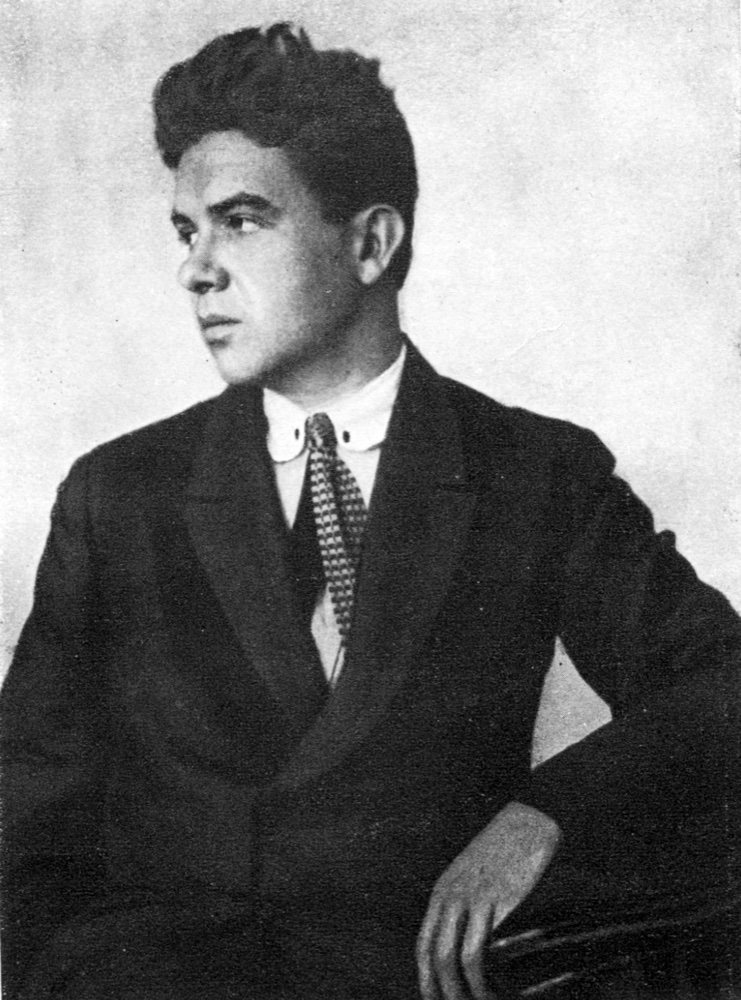
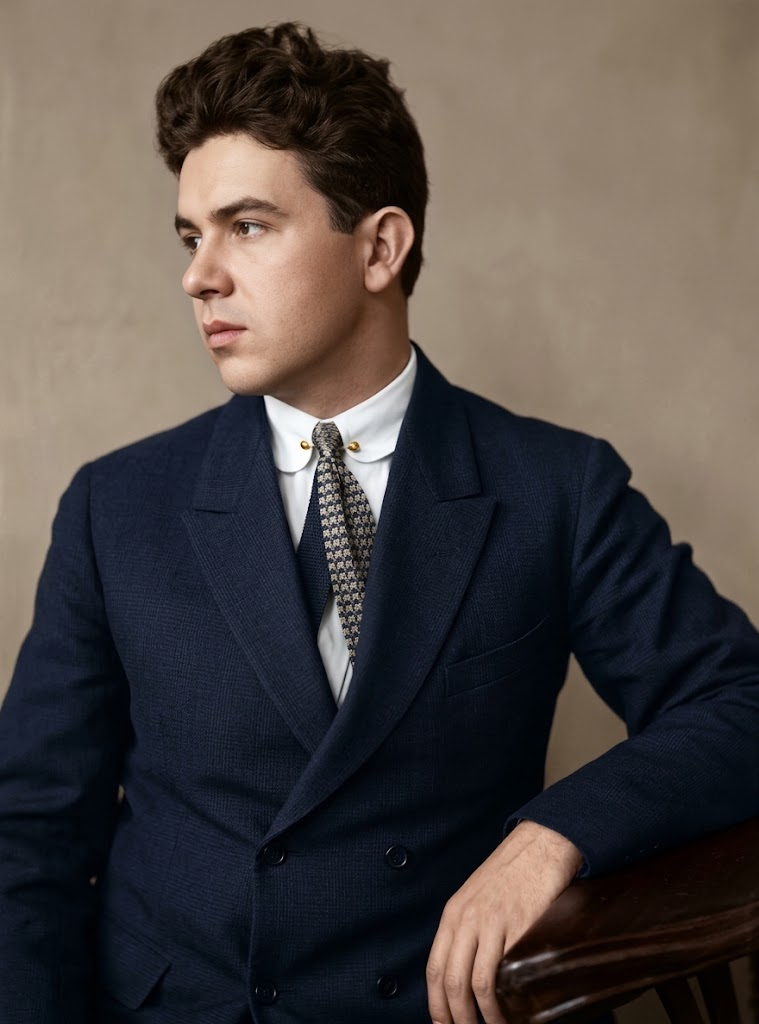
Approve Shkurupii with AI-colorized portrait

diff --git a/src/content/people/uk/heo-shkurupii.md b/src/content/people/uk/heo-shkurupii.md
@@ -23,11 +23,12 @@ places:
   - { name: "Соловки", lat: 65.025, lon: 35.71, note: "ув'язнення, 1935–1937" }
 image:
   src: ./images/heo-shkurupii.jpg
-  alt: "Гео Шкурупій у темному костюмі й краватці, дивиться вбік, чорно-біле фото 1928 року"
+  alt: "Гео Шкурупій у темному костюмі й краватці, дивиться вбік, фото 1928 року"
   position: "50% 20%"
   author: "О. Кореневич"
   license: "Public domain"
   source_url: "https://commons.wikimedia.org/wiki/File:Heo_Schkurpiy.jpg"
+  ai_edit: colorized
 sources:
   - title: "Internet Encyclopedia of Ukraine - Shkurupii, Geo (автор - I. Koshelivets)"
     url: "https://www.encyclopediaofukraine.com/display.asp?linkpath=pages%5CS%5CH%5CShkurupiiGeo.htm"
@@ -37,7 +38,8 @@ sources:
     url: "https://zaxid.net/geo_shkurupiy_biografiya_tsikavi_fakti_poet_avangardist_rozstrilyanogo_vidrodzhennya_n1635063"
 related: [mykhail-semenko, valerian-polishchuk, mykola-zerov, oleksandr-dovzhenko]
 collections: [executed-renaissance]
-status: draft
+status: approved
+published: 2026-10-18T23:32:31Z
 ---
 
 ## Король футуропрерій

diff --git a/src/content/people/en/heo-shkurupii.md b/src/content/people/en/heo-shkurupii.md
@@ -11,7 +11,7 @@ key_accomplishments:
   - "Screenplays for the films The Blue Packet (1926) and Spartacus (1927)"
   - "Editor of Avanhard, the almanac of the Kyiv branch of Nova Generatsiia"
 birthplace_name: "Bendery (now Moldova)"
-image_alt: "Heo Shkurupii in a dark suit and tie, looking to the side, black-and-white photo of 1928"
+image_alt: "Heo Shkurupii in a dark suit and tie, looking to the side, photo of 1928"
 ---
 
 ## The king of the futuro-prairies
